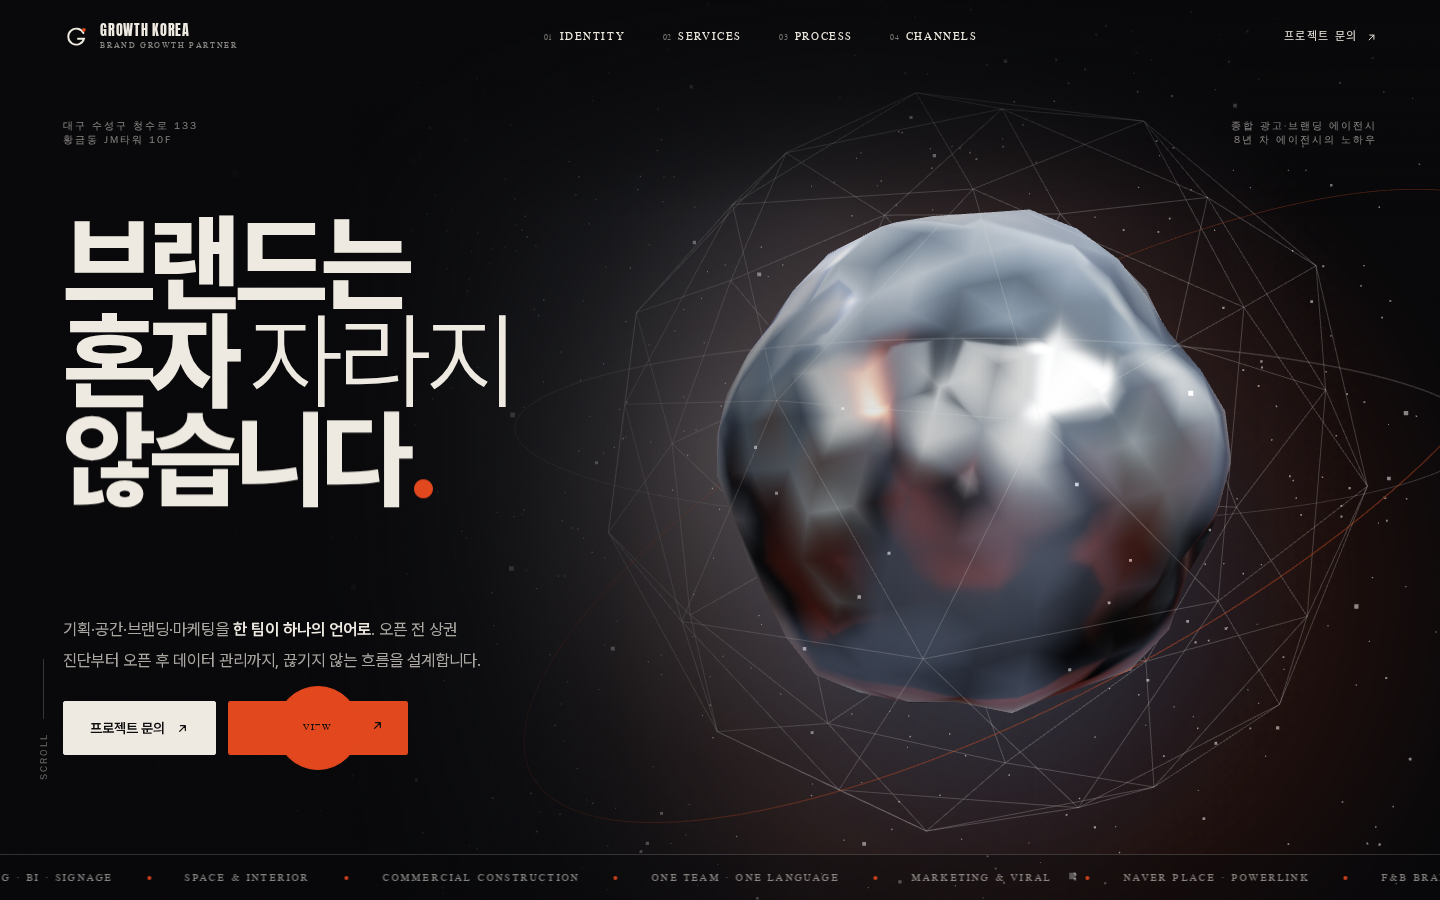
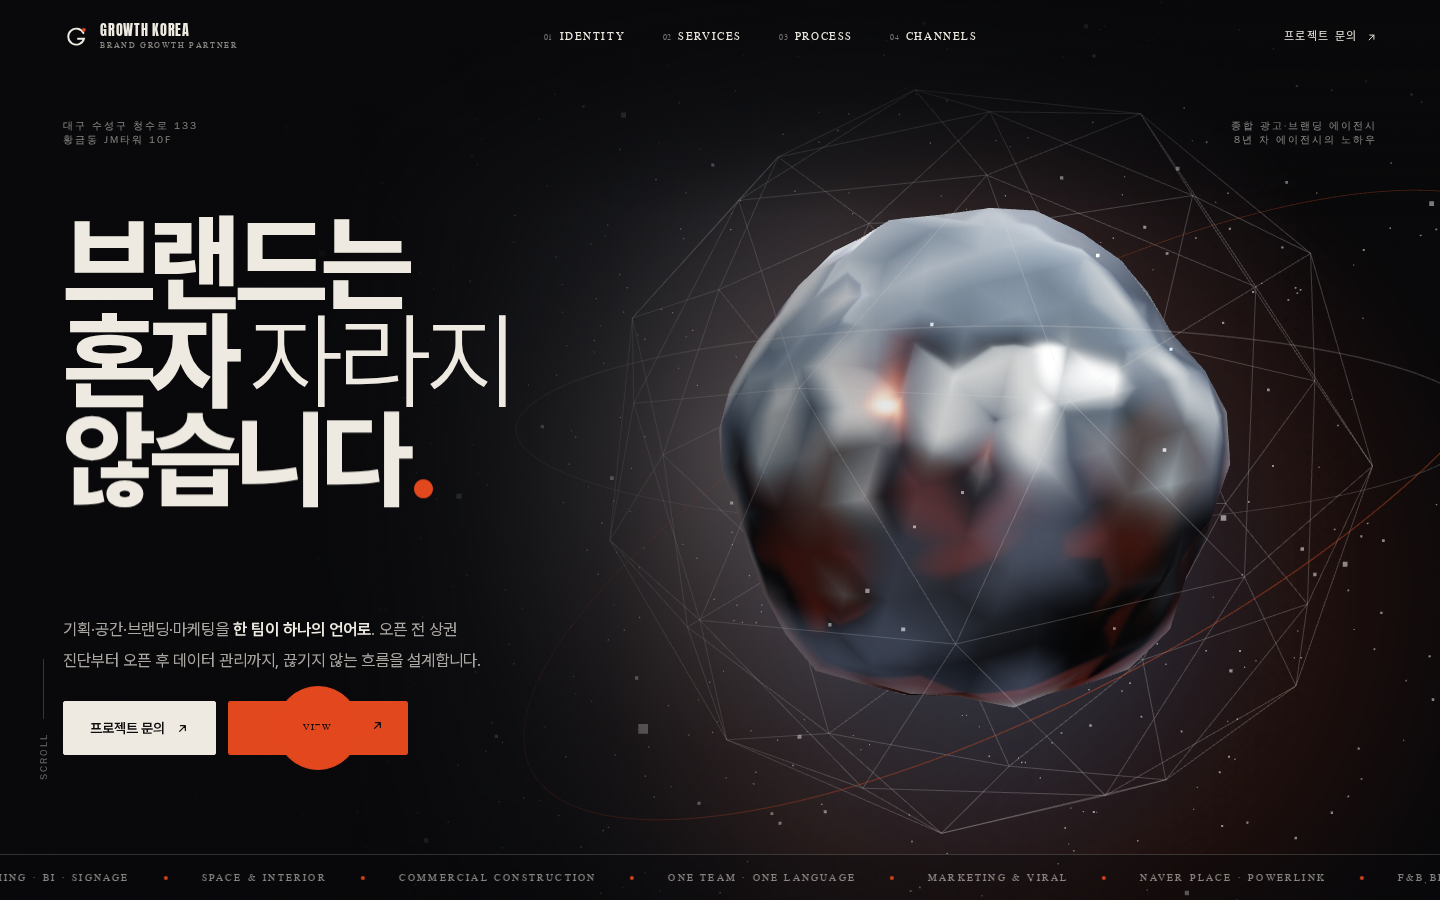
검증 리포트에 CDN 차단 테스트 주석 추가

diff --git a/verify_pages.py b/verify_pages.py
@@ -252,6 +252,7 @@ def main():
             "page_errors": page_errors,
             "failed_local": failed_local,
             "failed_external": failed_external,
+            "note": "home-offline 화면에서 기록된 외부 리소스 실패는 CDN 차단 테스트(의도된 결과)이며, 판정에서는 제외했습니다.",
         }
     )
     (ROOT / "verify_pages-report.json").write_text(json.dumps(report, ensure_ascii=False, indent=2), encoding="utf-8")
